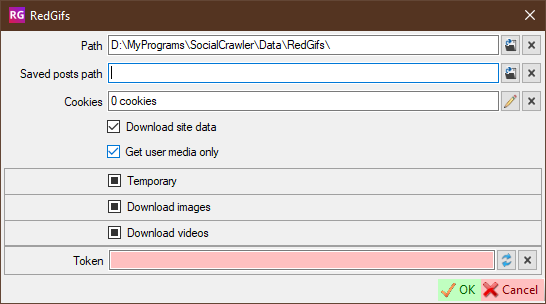
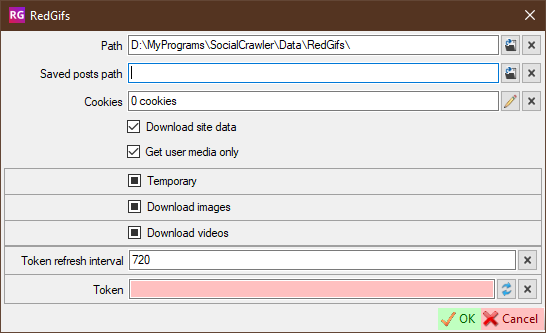
2022.1.2.0
Redgifs: added token refresh interval; reduced interval value
Updated labels collection
PornHub: fixed bugs
Notifications: pressing any button opens SCrawler
User list loader finished

Changed region(s): [[0.0, 0.0296, 1.0, 0.977], [0.9652, 0.0296, 0.9963, 0.0592]]

diff --git a/FAQ.md b/FAQ.md
@@ -42,7 +42,7 @@ A: How to request a new site you can read [here](CONTRIBUTING.md#how-to-request-
 
 #### Q: **Twitter/Instagram download failed.**
 
-A: Check your credentials. Both of these sites require cookies. Check your [Twitter tokens](https://github.com/AAndyProgram/SCrawler/wiki/Settings#how-to-find-twitter-tokens) and [Instagram settings](https://github.com/AAndyProgram/SCrawler/wiki/Settings#instagram-settings). If all settings are set, but nothing works, go to [create a new issue](https://github.com/AAndyProgram/SCrawler/issues). Don't forget to attach the LOG.
+A: Check your credentials. Both of these sites require cookies. Check your [Twitter tokens](https://github.com/AAndyProgram/SCrawler/wiki/Settings#how-to-find-twitter-tokens) and [Instagram settings](https://github.com/AAndyProgram/SCrawler/wiki/Settings#instagram). If all settings are set, but nothing works, go to [create a new issue](https://github.com/AAndyProgram/SCrawler/issues). Don't forget to attach the LOG.
 
 **[SITES REQUIREMENTS](https://github.com/AAndyProgram/SCrawler/wiki/Settings#sites-requirements)**
 

diff --git a/CONTRIBUTING.md b/CONTRIBUTING.md
@@ -11,10 +11,10 @@ I welcome requests! Follow these steps to contribute:
 1. Delete the "PersonalUtilities" project from the solution.
 1. Delete the "PersonalUtilities.Notifications" project from the solution.
 1. The following libraries must be added to project references with the '**Copy to output folder**' option:
-  - ```PersonalUtilities.dll```
-  - ```PersonalUtilities.Notifications.dll```
-  - ```Microsoft.Toolkit.Uwp.Notifications.dll```
-  - ```System.ValueTuple.dll```
+    - ```PersonalUtilities.dll```
+    - ```PersonalUtilities.Notifications.dll```
+    - ```Microsoft.Toolkit.Uwp.Notifications.dll```
+    - ```System.ValueTuple.dll```
 1. Import PersonalUtilities.Functions for the whole project.
 
 **Always use the correct libraries. You must download libraries from the same release date as the code commit date.**

diff --git a/Changelog.md b/Changelog.md
@@ -1,3 +1,18 @@
+# 2023.1.2.0
+
+*2023-01-02*
+
+- Added
+  - RedGifs: an ability to customize token refresh interval
+  - RedGifs: token refresh interval changed from 24 hours to 12 hours
+  - Updated labels collection
+- Fixed
+  - PornHub: bug in the downloader
+  - PornHub: download additional non-user videos
+  - Reddit: bug in standalone downloader
+  - Fixed a bug in the user list loading algorithm
+  - Notifications: pressing any button opens SCrawler
+
 # 2022.12.27.0
 
 *2022-12-27*
